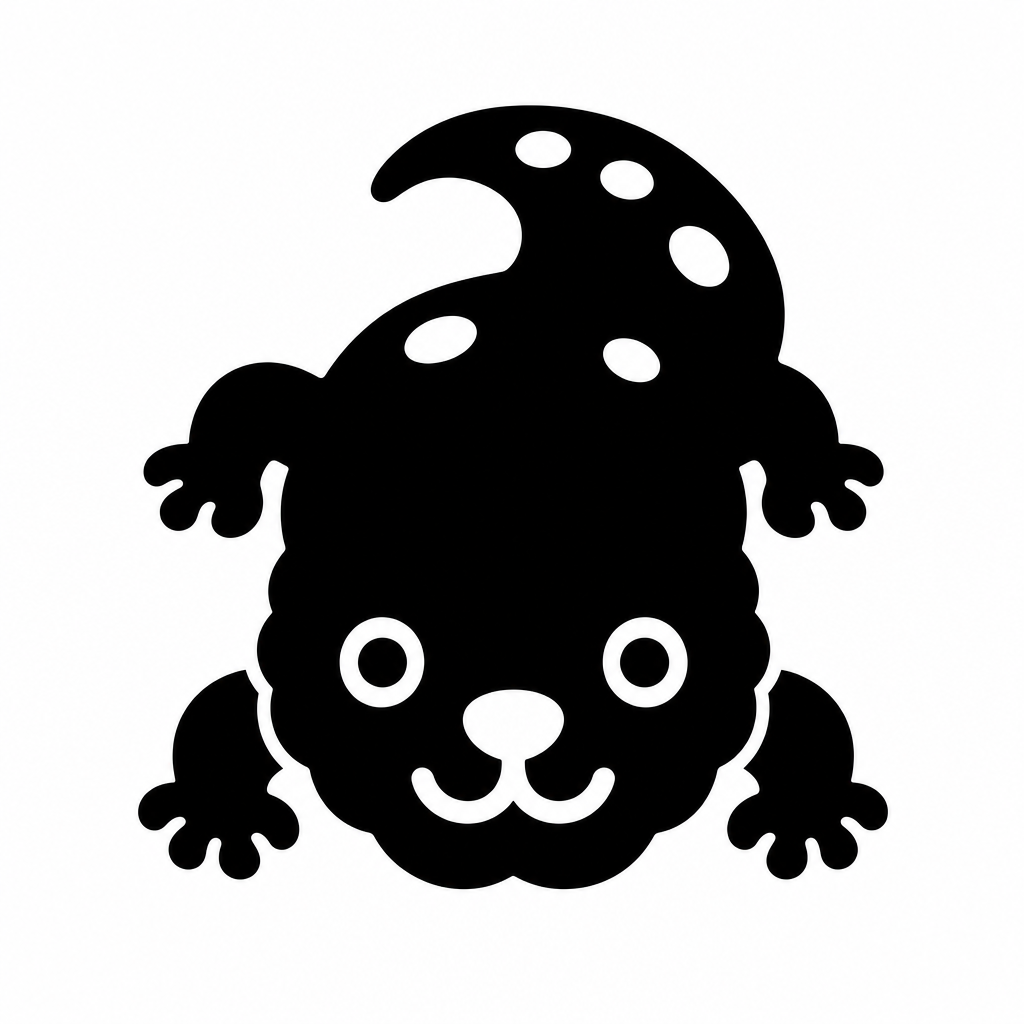
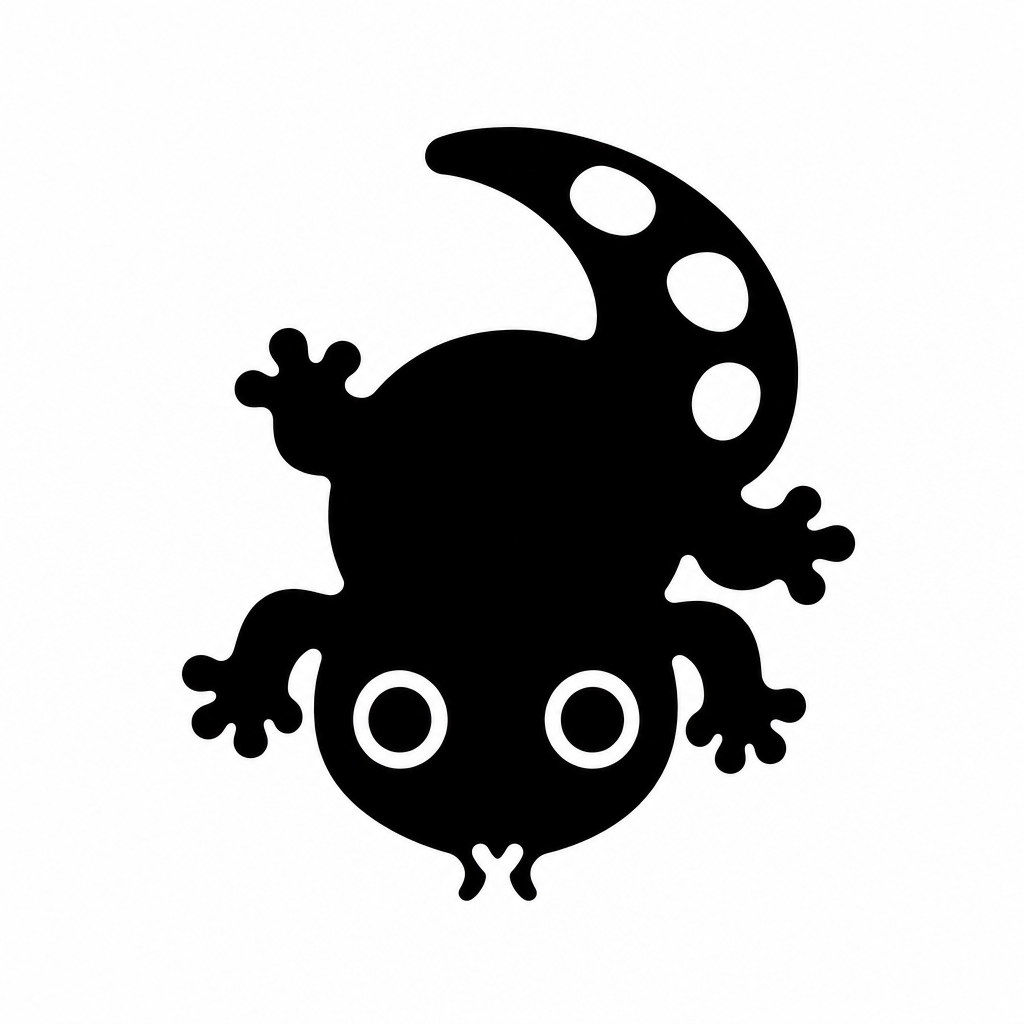
design: 動物アイコンの生成候補

Changed region(s): [[0.125, 0.0938, 0.875, 0.875]]

diff --git a/design/GEN_REPORT.md b/design/GEN_REPORT.md
@@ -1,10 +1,6 @@
 # 動物アイコン候補（画像生成: responses+image_generation（基準: ref_poodle.png）・品質 medium）
 
-- cat: 候補 2/2 枚（usage {"input_tokens": 4989, "input_tokens_details": {"cache_write_tokens": 0, "cached_tokens": 1664}, "output_tokens": 1875, "output_tokens_details": {"reasoning_tokens": 960}, "total_tokens": 6864}）
-- small: 候補 2/2 枚（usage {"input_tokens": 4891, "input_tokens_details": {"cache_write_tokens": 0, "cached_tokens": 1664}, "output_tokens": 1778, "output_tokens_details": {"reasoning_tokens": 1152}, "total_tokens": 6669}）
-- reptile: 候補 2/2 枚（usage {"input_tokens": 4573, "input_tokens_details": {"cache_write_tokens": 0, "cached_tokens": 1536}, "output_tokens": 1441, "output_tokens_details": {"reasoning_tokens": 640}, "total_tokens": 6014}）
-- bird: 候補 2/2 枚（usage {"input_tokens": 4925, "input_tokens_details": {"cache_write_tokens": 0, "cached_tokens": 1536}, "output_tokens": 1795, "output_tokens_details": {"reasoning_tokens": 960}, "total_tokens": 6720}）
-- fish: 候補 2/2 枚（usage {"input_tokens": 5127, "input_tokens_details": {"cache_write_tokens": 0, "cached_tokens": 1664}, "output_tokens": 2008, "output_tokens_details": {"reasoning_tokens": 1344}, "total_tokens": 7135}）
-- paw: 候補 2/2 枚（usage {"input_tokens": 4493, "input_tokens_details": {"cache_write_tokens": 0, "cached_tokens": 1664}, "output_tokens": 1381, "output_tokens_details": {"reasoning_tokens": 896}, "total_tokens": 5874}）
+- reptile: 候補 2/2 枚（usage {"input_tokens": 5337, "input_tokens_details": {"cache_write_tokens": 0, "cached_tokens": 1536}, "output_tokens": 2163, "output_tokens_details": {"reasoning_tokens": 1088}, "total_tokens": 7500}）
+- fish: 候補 2/2 枚（usage {"input_tokens": 5566, "input_tokens_details": {"cache_write_tokens": 0, "cached_tokens": 1536}, "output_tokens": 2423, "output_tokens_details": {"reasoning_tokens": 1728}, "total_tokens": 7989}）
 
 見本：design/candidates.png、元画像：design/gen/
